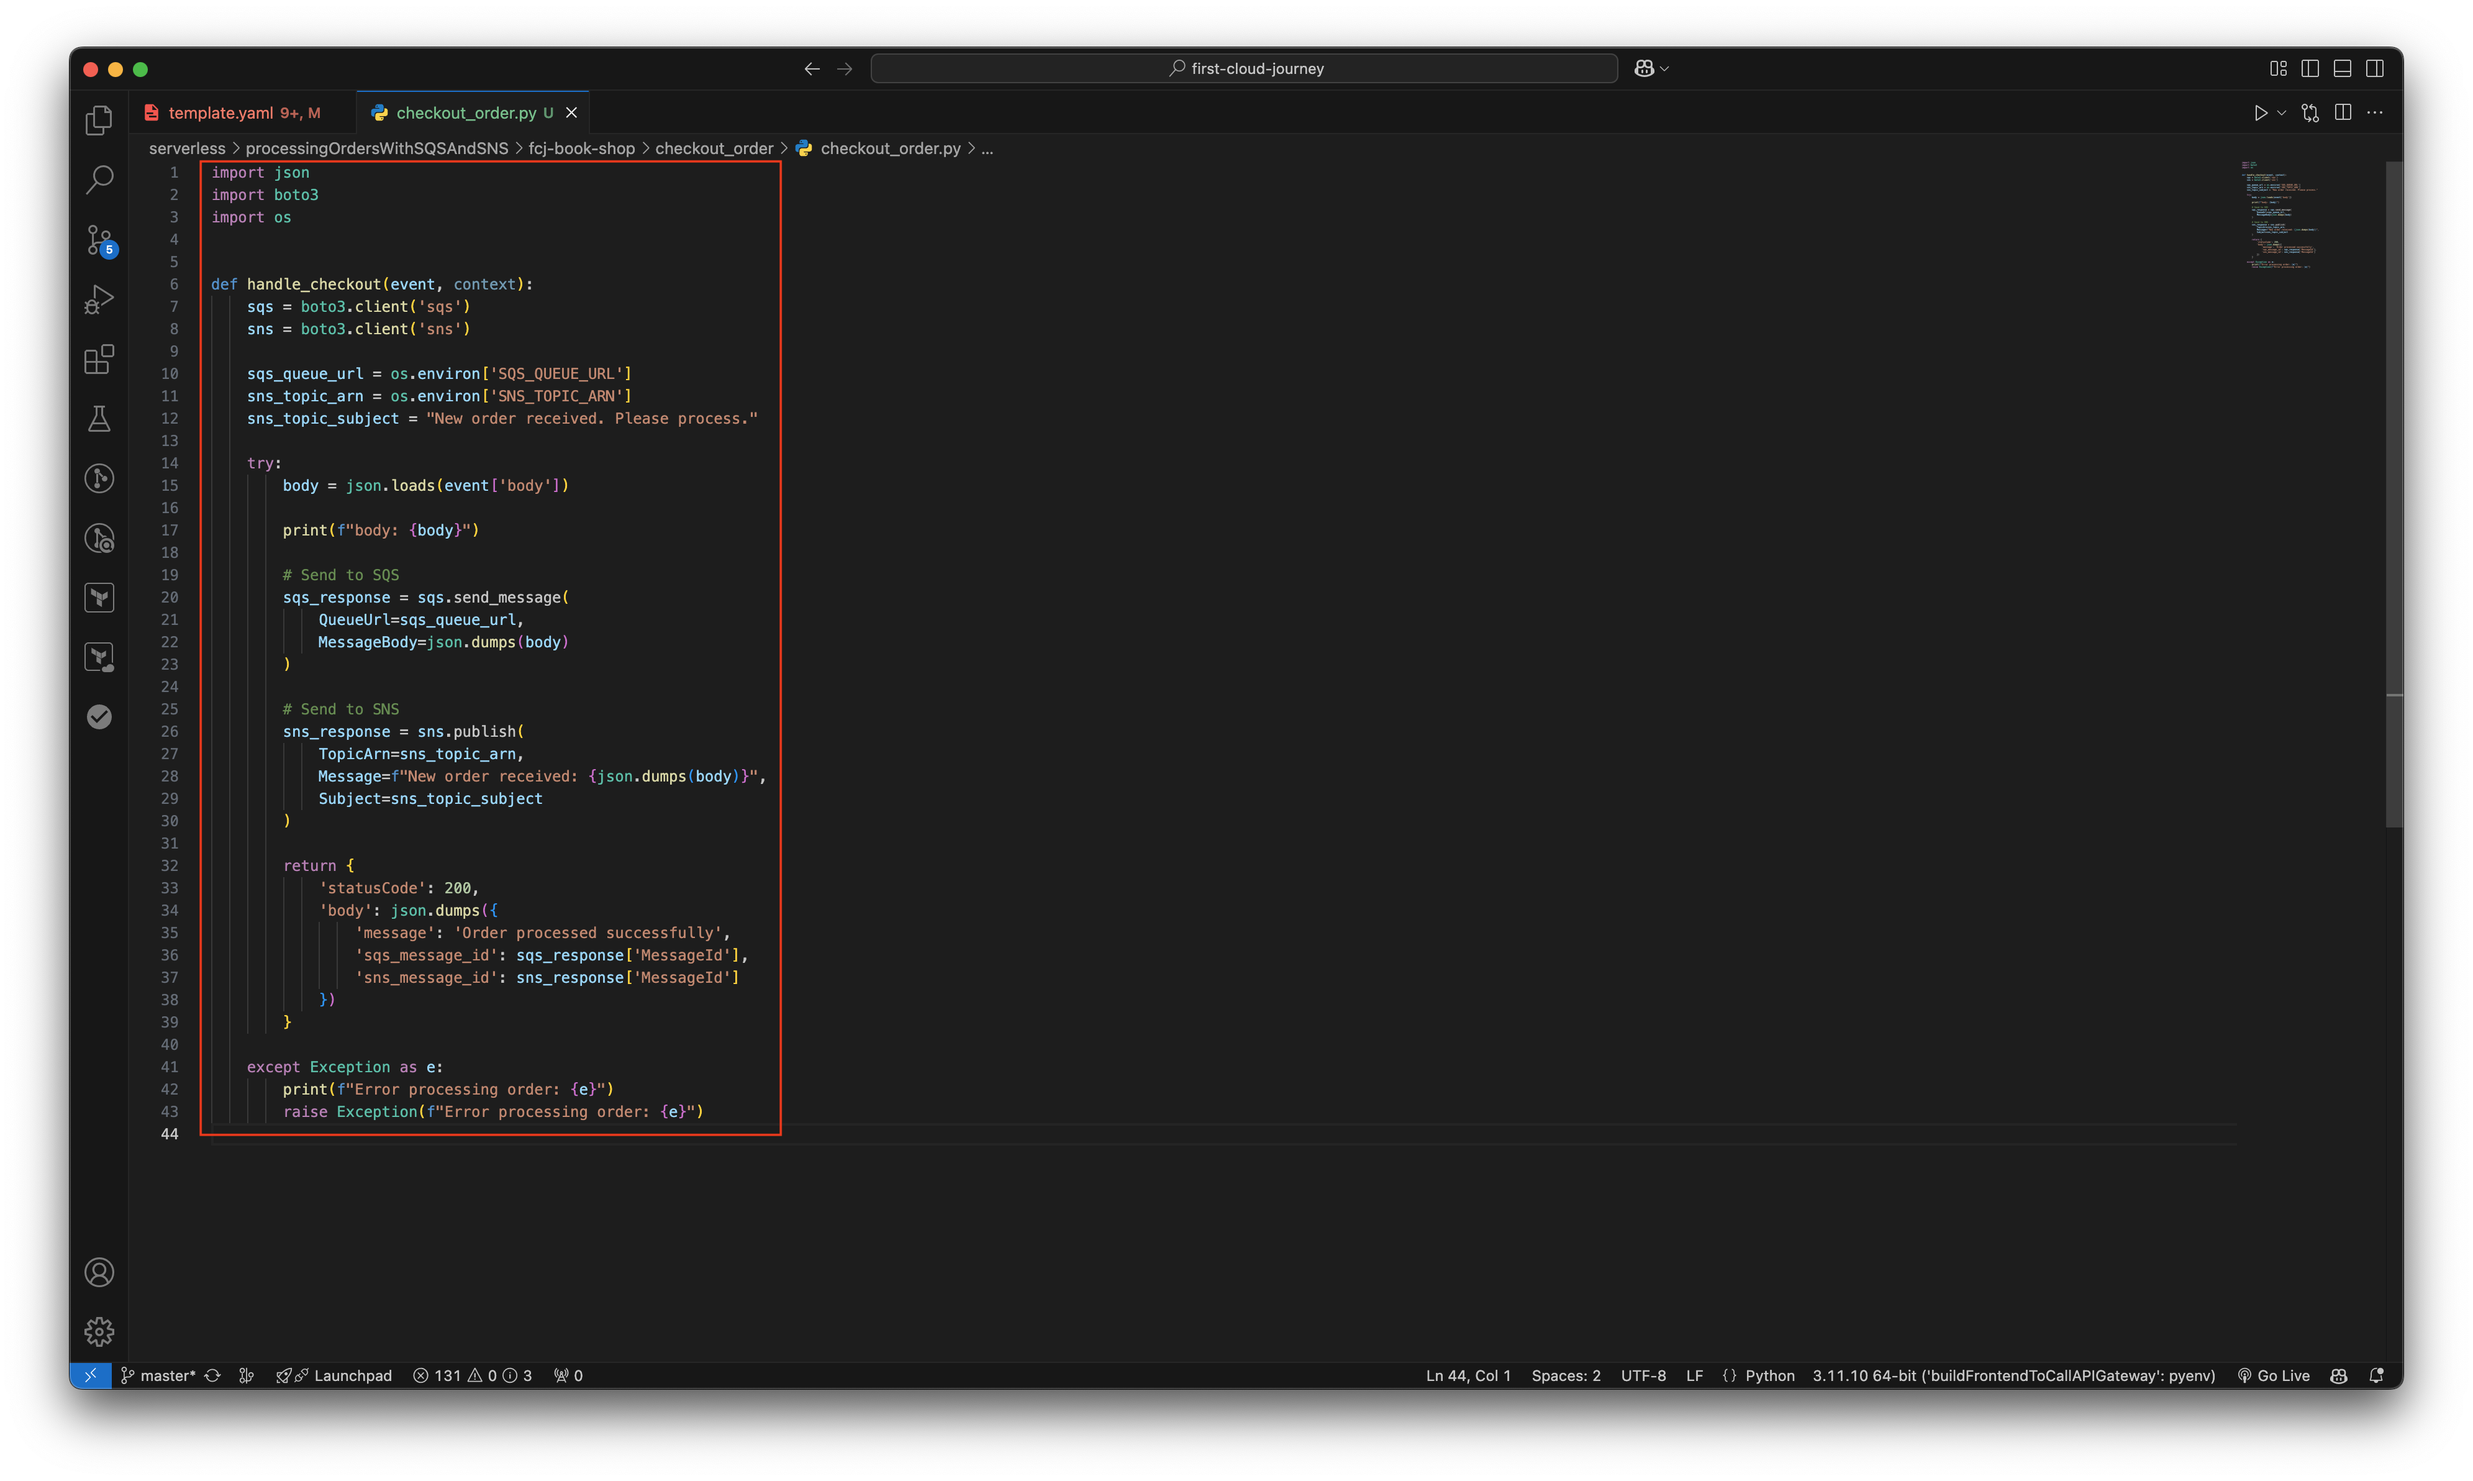
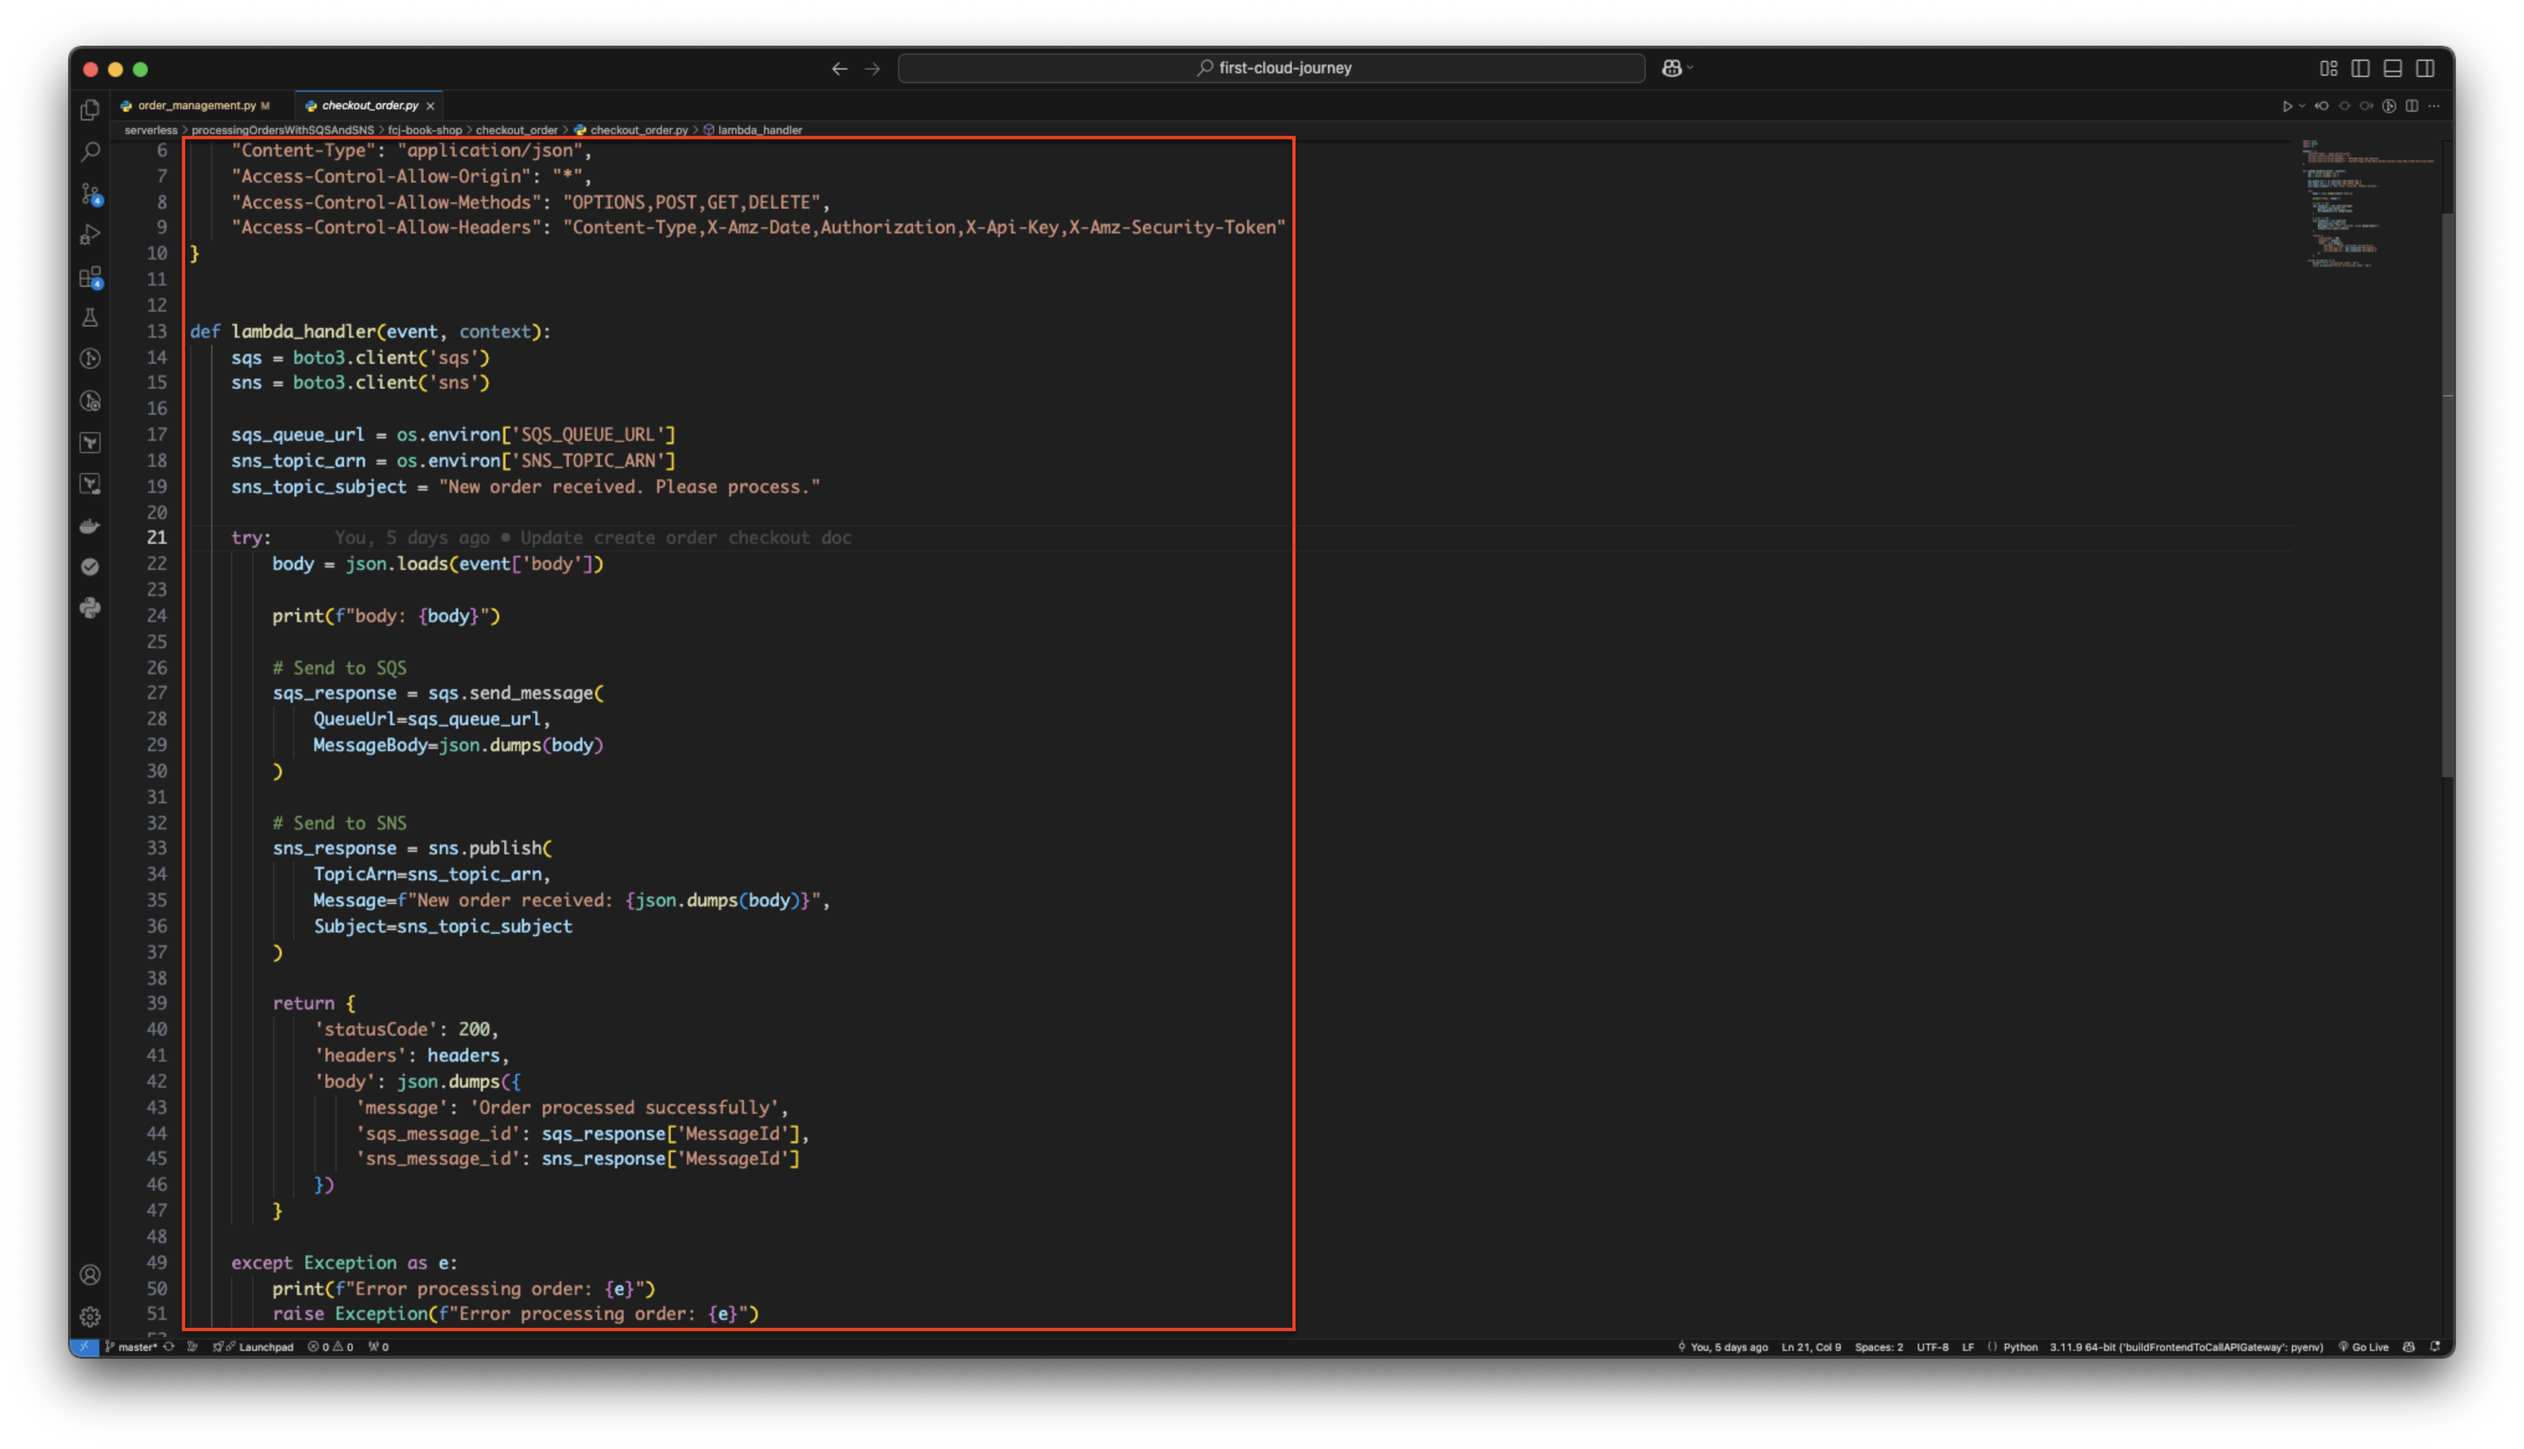
Update en version for 3.3

diff --git a/content/3-create-api-lambda-function/3-3-create-order-management-lambda-function/_index.md b/content/3-create-api-lambda-function/3-3-create-order-management-lambda-function/_index.md
@@ -60,7 +60,7 @@ In this step, we will create a new order_management Lambda function using a SAM 
           FunctionName: order_management
           Environment:
             Variables:
-              QUEUE_NAME: !Ref checkoutQueueName
+              SQS_QUEUE_URL: !Ref checkoutQueueUrl
           Architectures:
             - x86_64
           Policies:
@@ -106,6 +106,8 @@ In this step, we will create a new order_management Lambda function using a SAM 
           SourceAccount: !Ref "AWS::AccountId"
       ```
 
+      <!-- ADD IMAGE 42 HERE -->
+
 2. The directory structure is as follows.
 
     ```bash
@@ -122,3 +124,125 @@ In this step, we will create a new order_management Lambda function using a SAM 
 
     - Create **order_management** folder in **fcj-book-shop-sam-ws6/fcj-book-shop/** folder.
     - Create **order_management.py** file and copy the following code to it.
+
+      ```py
+      import os
+      import json
+      import boto3
+
+      # Initialize
+      sqs = boto3.client('sqs')
+      queue_url = os.getenv('SQS_QUEUE_URL')
+      headers = {
+          "Content-Type": "application/json",
+          "Access-Control-Allow-Origin": "*",
+          "Access-Control-Allow-Methods": "OPTIONS,POST,GET,DELETE",
+          "Access-Control-Allow-Headers": "Content-Type,X-Amz-Date,Authorization,X-Api-Key,X-Amz-Security-Token"
+      }
+
+
+      def get_messages_from_sqs(messages):
+          messages = []
+
+          # Get the total number of messages in the queue
+          response = sqs.get_queue_attributes(
+              QueueUrl=queue_url,
+              AttributeNames=['ApproximateNumberOfMessages']
+          )
+          total_messages = int(response['Attributes']['ApproximateNumberOfMessages'])
+
+          while len(messages) < total_messages:
+              # Receive messages from SQS queue
+              received_message_res = sqs.receive_message(
+                  QueueUrl=queue_url,
+                  MaxNumberOfMessages=10,
+                  WaitTimeSeconds=20
+              )
+
+              if 'Messages' in received_message_res:
+                  for message in received_message_res['Messages']:
+                      messages.append({
+                          "receiptHandle": message["ReceiptHandle"],
+                          "books": json.loads(message["Body"])['books'],
+                          "price": json.loads(message["Body"])['price'],
+                          "processed": False
+                      })
+
+      # Get Messages from DynamoDB
+
+
+      def get_messages_from_dynamodb():
+          pass
+
+
+      def lambda_handler(event, context):
+          messages = []
+
+          # Get messages from sqs
+          get_messages_from_sqs(messages)
+
+          print(f"messages: {messages}")
+
+          # Get Messages from DynamoDB
+
+          return {
+              'statusCode': 200,
+              'body': json.dumps(messages),
+              'headers': headers
+          }
+      ```
+
+      <!-- ADD IMAGE 43 HERE -->
+
+3. Uncomment this code block.
+
+    ```yaml
+    BookApiDeployment:
+      Type: AWS::ApiGateway::Deployment
+      Properties:
+        RestApiId: !Ref BookApi
+      DependsOn:
+        - BookApiGet
+        - BookApiCreate
+        - BookApiDelete
+        - LoginApi
+        - RegisterApi
+        - ConfirmApi
+        - FcjCheckoutOrderApi
+        - FcjOrderManagementApi
+
+    BookApiStage:
+      Type: AWS::ApiGateway::Stage
+      Properties:
+        RestApiId: !Ref BookApi
+        StageName: !Ref stage
+        DeploymentId: !Ref BookApiDeployment
+    ```
+
+    ![CreateOrderManagementFunction](/images/temp/1/44.png?width=90pc)
+
+4. Run the below commands.
+
+    ```bash
+    sam build
+    sam validate
+    sam deploy --guided
+    ```
+
+    ![CreateOrderManagementFunction](/images/temp/1/45.png?width=90pc)
+
+#### Check the creation
+
+1. Open [Amazon API Gateway console](https://us-east-1.console.aws.amazon.com/apigateway/main/apis?region=us-east-1).
+    - Click **fcj-serverless-api**.
+      ![CreateOrderManagementFunction](/images/temp/1/38.png?width=90pc)
+    - Click **Resources** on the left menu.
+    - Check **/order** just created.
+      ![CreateOrderManagementFunction](/images/temp/1/46.png?width=90pc)
+
+2. Open [Amazon Lambda console](https://us-east-1.console.aws.amazon.com/lambda/home?region=us-east-1#/functions).
+    - Click **Functions** on the left menu.
+    - Choose **order_management** function.
+      ![CreateOrderManagementFunction](/images/temp/1/47.png?width=90pc)
+    - At **order_management** page, check the function that just created.
+      <!-- ADD IMAGE 48 HERE -->

diff --git a/content/3-create-api-lambda-function/3-2-create-checkout-order-lambda-function/_index.md b/content/3-create-api-lambda-function/3-2-create-checkout-order-lambda-function/_index.md
@@ -183,8 +183,15 @@ In this step, we will create a new checkout_order Lambda function using a SAM te
       import boto3
       import os
 
+      headers = {
+          "Content-Type": "application/json",
+          "Access-Control-Allow-Origin": "*",
+          "Access-Control-Allow-Methods": "OPTIONS,POST,GET,DELETE",
+          "Access-Control-Allow-Headers": "Content-Type,X-Amz-Date,Authorization,X-Api-Key,X-Amz-Security-Token"
+      }
 
-      def handle_checkout(event, context):
+
+      def lambda_handler(event, context):
           sqs = boto3.client('sqs')
           sns = boto3.client('sns')
 
@@ -212,6 +219,7 @@ In this step, we will create a new checkout_order Lambda function using a SAM te
 
               return {
                   'statusCode': 200,
+                  'headers': headers,
                   'body': json.dumps({
                       'message': 'Order processed successfully',
                       'sqs_message_id': sqs_response['MessageId'],
